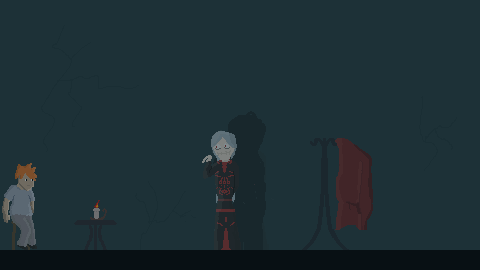
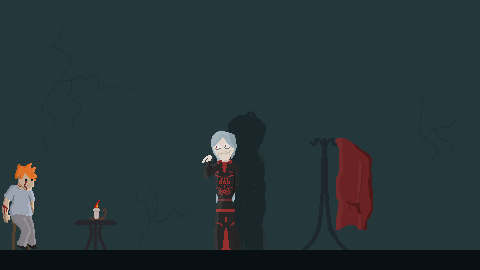
Added deathscreen to discipline room when you get to close to the adult

diff --git a/src/main/java/puntozero/liftoff/scenes/DisciplineScene.java b/src/main/java/puntozero/liftoff/scenes/DisciplineScene.java
@@ -3,6 +3,7 @@ package puntozero.liftoff.scenes;
 import puntozero.liftoff.components.PlayerInventory;
 import puntozero.liftoff.manager.SceneState;
 import puntozero.liftoff.manager.SceneStateManager;
+import puntozero.liftoff.prefabs.AdultDeath;
 import puntozero.liftoff.prefabs.Exit;
 import puntozero.liftoff.prefabs.Interactable;
 import puntozero.liftoff.prefabs.LevelPlayer;
@@ -41,6 +42,7 @@ public class DisciplineScene extends Scene {
                 add(() -> new LevelPlayer() {{
                     transform = new Transform(new Vector2(13f, 5f));
                 }});
+                add(() -> new AdultDeath(new Vector2(-5f,4.5f)));
                 add(PlayerInventory::create);
             }};
 
@@ -48,10 +50,10 @@ public class DisciplineScene extends Scene {
                 suppliers.add(() -> new Interactable("key",
                         new Vector2(),
                         new Vector2(1.6f,1.6f),
-                        new Image(AssetManager.get("key", SpriteAsset.class)),
+                        new Image(AssetManager.get("coatKey", SpriteAsset.class)),
                         scene.takeKey("key"))
                 {{
-                    transform = new Transform(new Vector2(7f,4.2f));
+                    transform = new Transform(new Vector2(7f,2.93f));
                 }});
             }
             //TODO: If child comes to close to adult then reset the game
@@ -59,6 +61,12 @@ public class DisciplineScene extends Scene {
             suppliers.add(() -> new GameObject("light", new Component[] {
                     new SpriteRenderer(AssetManager.get("disciplineLight", SpriteAsset.class)) {{
                         setSortingLayer("light");
+                    }}
+            }));
+
+            suppliers.add(() -> new GameObject("foreground", new Component[] {
+                    new SpriteRenderer(AssetManager.get("disciplineForeground", SpriteAsset.class)) {{
+                        setSortingLayer("foreground");
                     }}
             }));
 
@@ -87,7 +95,10 @@ public class DisciplineScene extends Scene {
         //TODO: replace assets to Liftoff
         AssetManager.createSprite("disciplineBackground", "disciplineRoom/background.png", 16);
         AssetManager.createSprite("disciplineLight", "disciplineRoom/background_light.png", 16);
+        AssetManager.createSprite("disciplineForeground", "disciplineRoom/foreground.png", 16);
+
         AssetManager.createSprite("key", "disciplineRoom/key.png", 16);
+        AssetManager.createSprite("coatKey", "disciplineRoom/coat_key.png", 16);
     }
 
     @Override

diff --git a/src/main/java/puntozero/liftoff/prefabs/AdultDeath.java b/src/main/java/puntozero/liftoff/prefabs/AdultDeath.java
@@ -1,0 +1,48 @@
+package puntozero.liftoff.prefabs;
+
+import puntozero.liftoff.manager.SceneStateManager;
+import pxp.engine.core.GameObject;
+import pxp.engine.core.Transform;
+import pxp.engine.core.component.BoxCollider;
+import pxp.engine.core.component.Collider;
+import pxp.engine.core.component.Component;
+import pxp.engine.core.component.SpriteRenderer;
+import pxp.engine.data.Color;
+import pxp.engine.data.Vector2;
+import pxp.engine.data.assets.AssetManager;
+import pxp.engine.data.assets.SpriteAsset;
+import pxp.engine.data.event.PXPEvent;
+import pxp.logging.Debug;
+
+public class AdultDeath extends GameObject {
+    private class AdultDeathHandler extends Component {
+        @Override
+        public void triggerEnter(Collider collider) {
+            // GAME OVER when you get to close to the adult
+            //TODO: uncomment this
+//            DeathScreen deathScreen = new DeathScreen("The adult saw you. You were taken back to the storage room...", new PXPEvent() {
+//                @Override
+//                public void invoke() {
+//                    SceneStateManager.getInstance().reset();
+//                }
+//            });
+//            ctx().getCurrentScene().addGameObject(deathScreen);
+        }
+    }
+
+    public AdultDeath(Vector2 position){
+        super("adultDeath");
+
+        this.setComponents(new Component[] {
+            new SpriteRenderer(AssetManager.get("blank", SpriteAsset.class)){{
+                color = new Color(255,255,255,0);
+            }},
+            new AdultDeathHandler(),
+                new BoxCollider(new Vector2(0,0), new Vector2(6f,3f)) {{
+                    trigger = true;
+                }}
+        });
+
+        transform = new Transform(position);
+    }
+}
